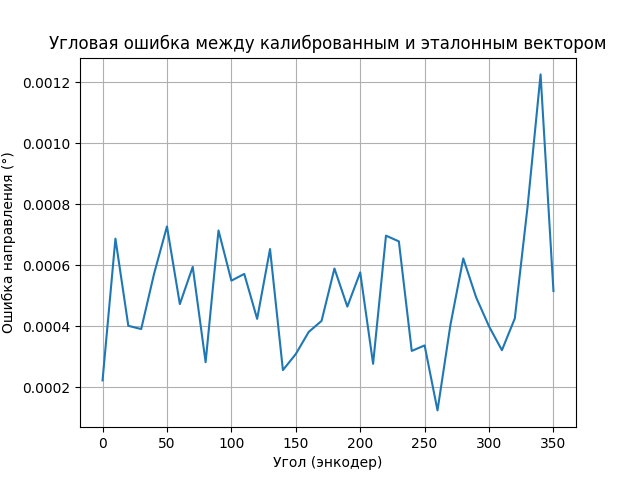
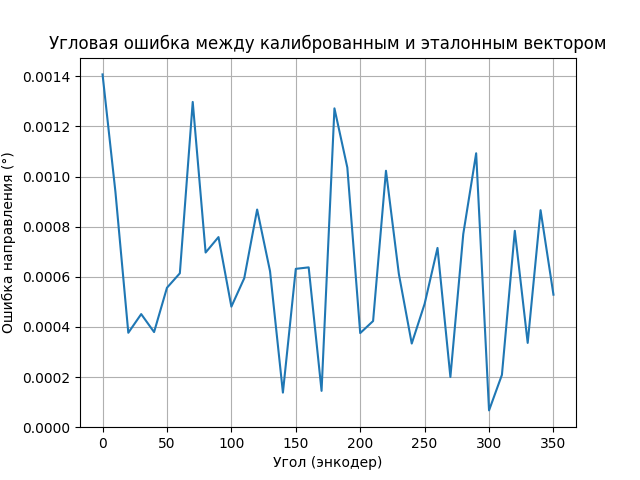
проверка на новых данных генерации

diff --git a/generate_data.py b/generate_data.py
@@ -4,7 +4,7 @@ from scipy.spatial.transform import Rotation as R
 
 # Константные параметры
 
-bias = np.array([2.0, -1.5, 0.8])  # Смещение (bias) нТл
+bias = np.array([100.0, -250.0, 600.0])  # Смещение (bias) нТл
 
 A = np.array([                   # Матрица искажений (soft-iron) Безразмерная
     [1.05, 0.02, 0.01],
@@ -14,9 +14,9 @@ A = np.array([                   # Матрица искажений (soft-iron)
 
 sensitivity = np.array([0.95, 1.03, 1.00])  # Чувствительность по осям Безразмерная
 
-noise_std = np.array([0.3, 0.3, 0.3])       # Шум по каждой оси нТл
+noise_std = np.array([0.5, 0.5, 0.5])       # Шум по каждой оси нТл
 
-ref_noise_std = 0.1                         # Шум эталонного магнитометра нТл
+ref_noise_std = 0.2                        # Шум эталонного магнитометра нТл
 
 detection_threshold = 1.0                   # Порог чувствительности эталонного нТл
 
